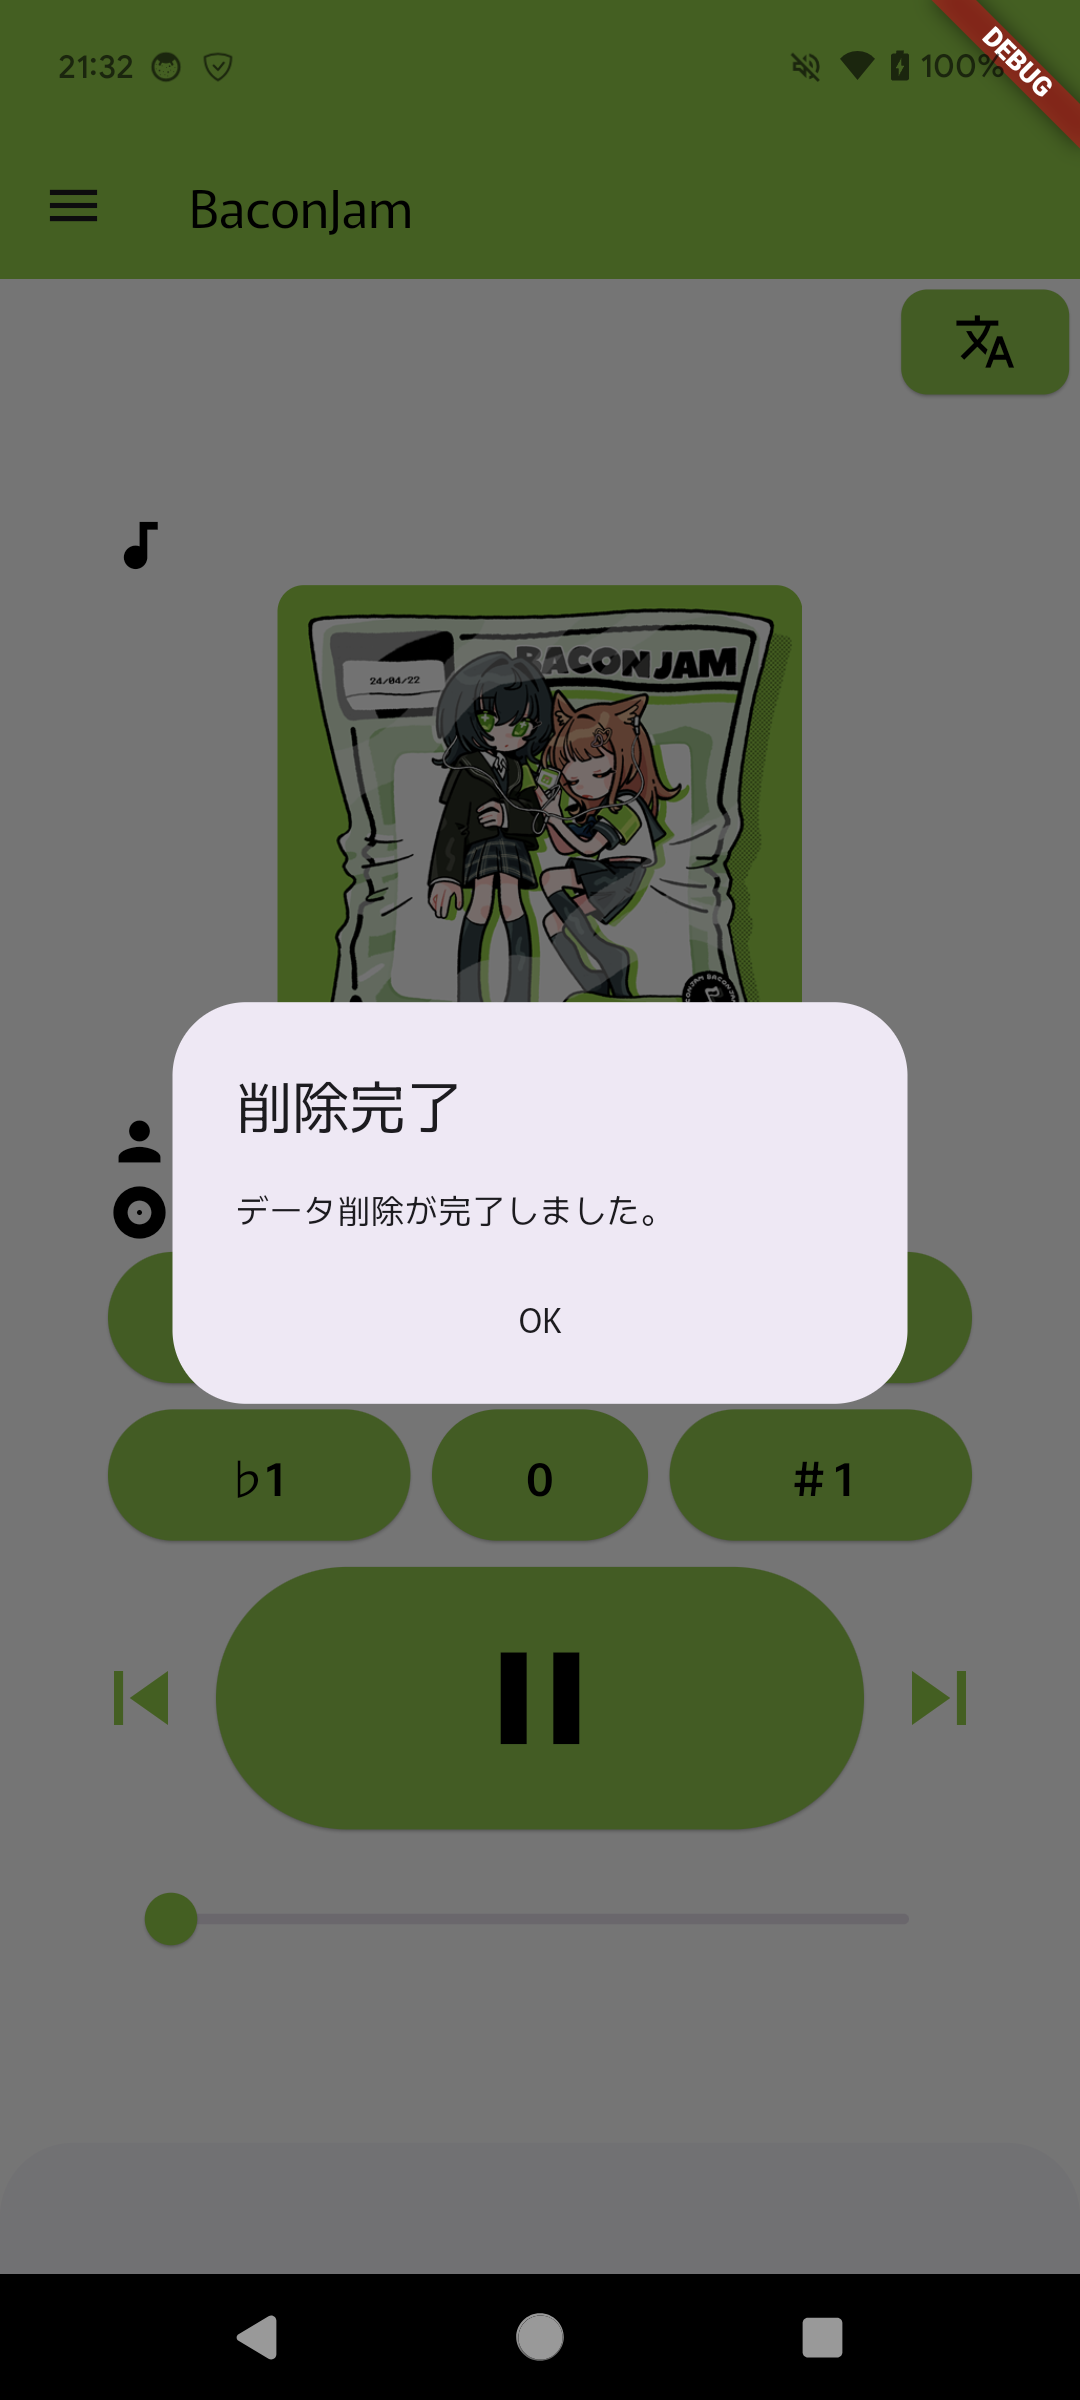
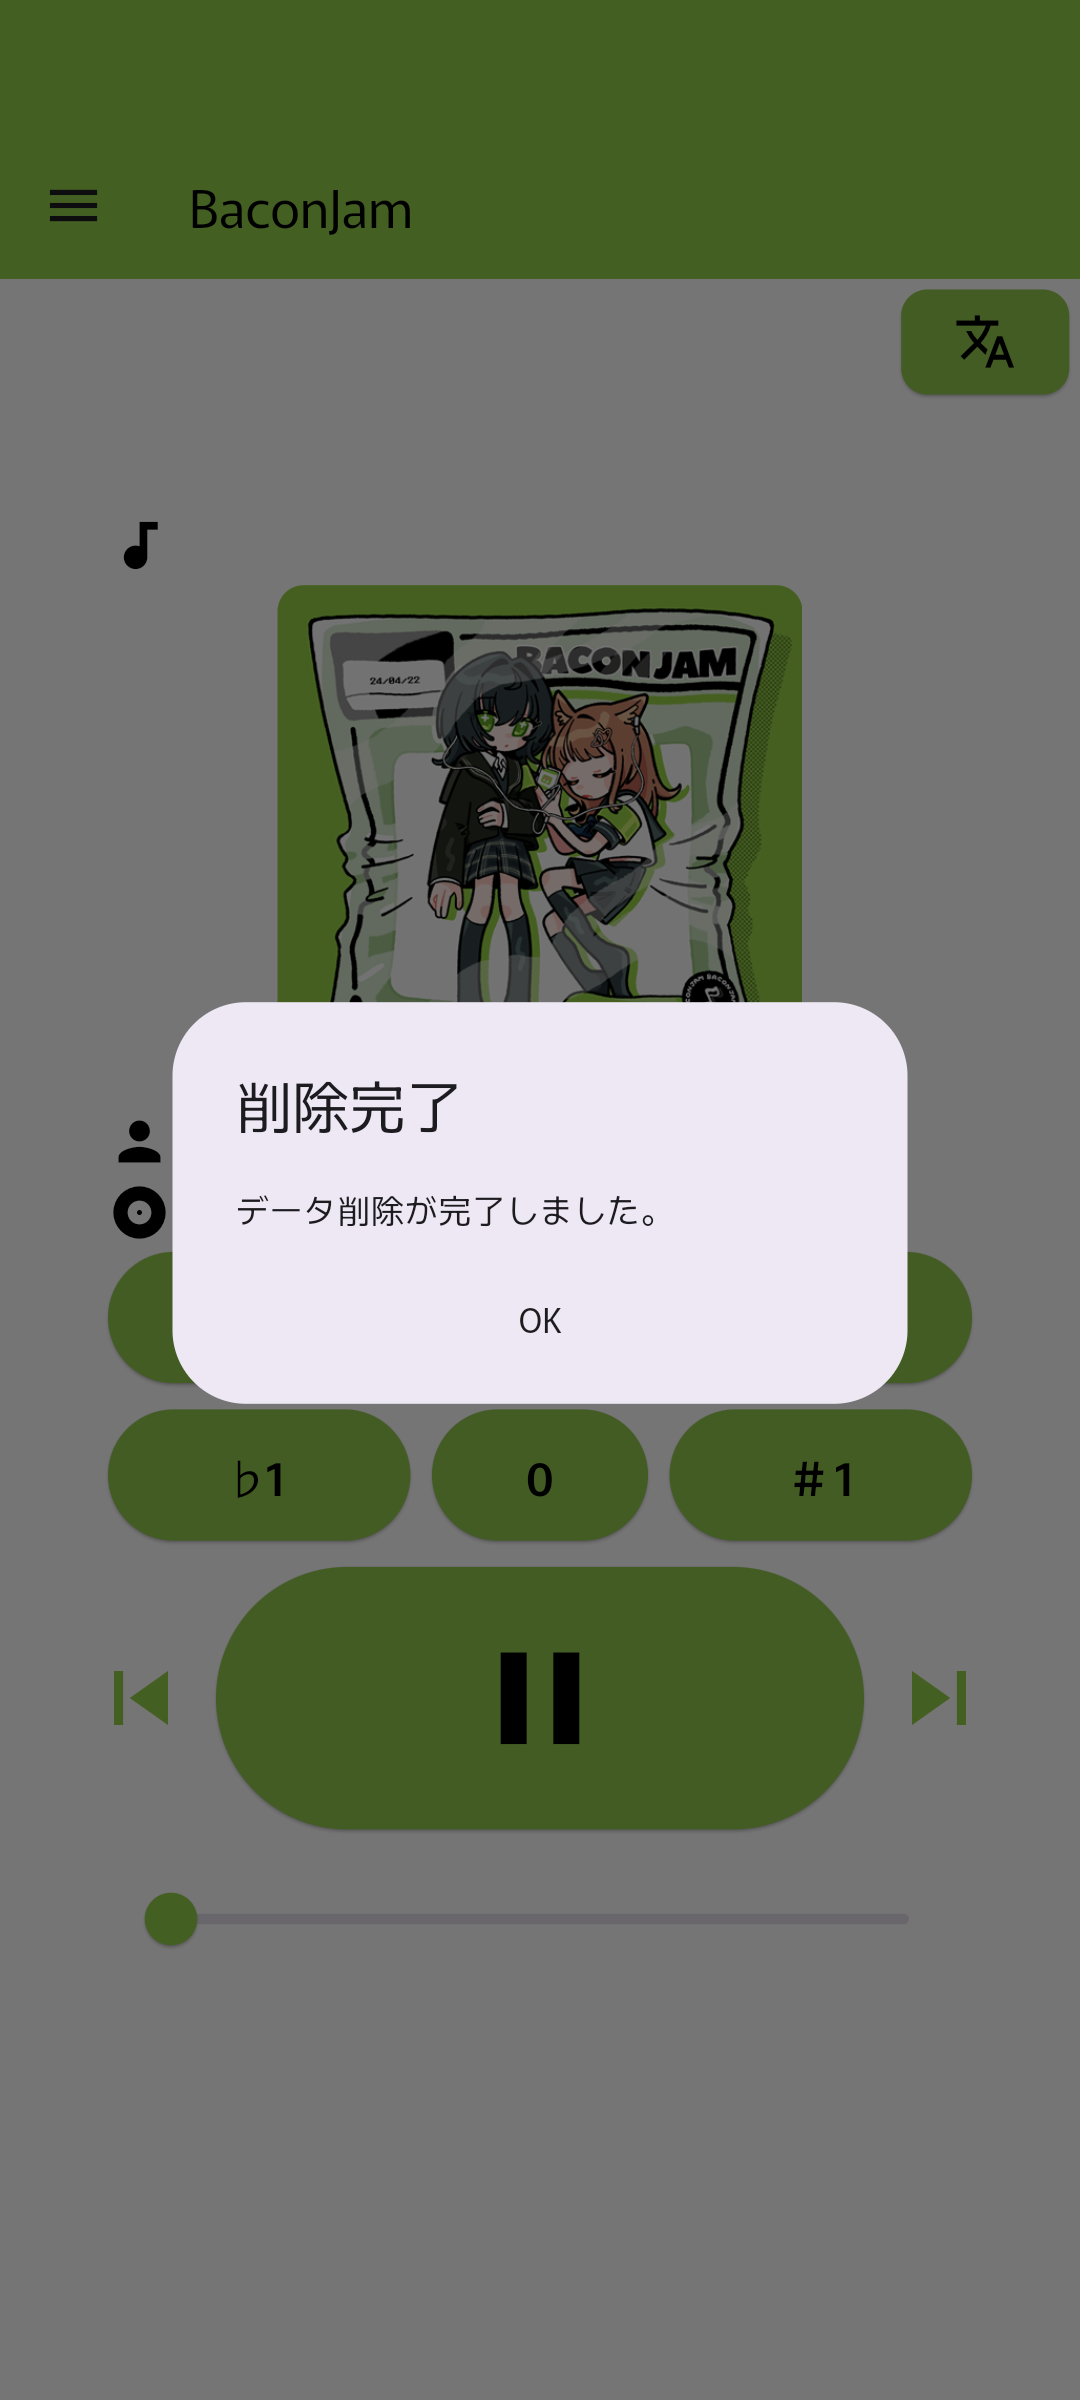
一部のキャプチャをスマートフォンの枠付きに変更しました。

Changed region(s): [[0.0, 0.9375, 1.0, 1.0], [0.7333, 0.0, 1.0, 0.0625]]

diff --git a/docs/version-history.html b/docs/version-history.html
@@ -336,7 +336,7 @@
                 <hr class="change">
                 <ul>
                     <li><span class="hover-text"
-                            data-image="images/display-main.png"></span>で以下のテキストが画面からはみ出る場合のみ、スクロールするように変更しました。</li>
+                            data-image="images/display-main_framed.png"></span>で以下のテキストが画面からはみ出る場合のみ、スクロールするように変更しました。</li>
                     <ul>
                         <li>曲名</li>
                         <li>アーティスト名</li>
@@ -345,7 +345,7 @@
                     <li><span class="hover-text"
                             data-image="images/display-setting.png"></span>の接続サーバー名をコード風テキストに変更しました。</li>
                     <li><span class="hover-text"
-                            data-image="images/display-main.png"></span>のプレイリスト選択ダイアログの最下部に表示されるボタンのテキストを変更しました。</li>
+                            data-image="images/display-main_framed.png"></span>のプレイリスト選択ダイアログの最下部に表示されるボタンのテキストを変更しました。</li>
                     <table class="table-design">
                         <tbody>
                             <tr>
@@ -377,7 +377,7 @@
                 <hr class="new">
                 <ul>
                     <li><span class="hover-text"
-                            data-image="images/display-main.png"></span>にストリーミングサービスで再生中の曲を強制的になうぷれ投稿するためのボタン<span
+                            data-image="images/display-main_framed.png"></span>にストリーミングサービスで再生中の曲を強制的になうぷれ投稿するためのボタン<span
                             class="button-like-text"><span class="material-icons"
                                 style="font-size: 1.2em; vertical-align: middle;">send</span></span>を追加しました。
                     </li>
@@ -836,7 +836,7 @@
                         <li>設定画面の<span class="button-like-text">なうぷれ設定</span>→<span
                                 class="button-like-text">投稿文パターン</span>で「カスタム」を選択する</li>
                         <li>設定画面からメイン画面に移動する</li>
-                        <li><span class="hover-text" data-image="images/display-main.png"></span>から設定画面に移動する</li>
+                        <li><span class="hover-text" data-image="images/display-main_framed.png"></span>から設定画面に移動する</li>
                     </ol>
                 </ul>
             </div>
@@ -868,9 +868,9 @@
                 <div class="table-container" data-release-date="20240807" data-install-size="17.2[MB]"></div>
                 <hr class="new">
                 <ul>
-                    <li><span class="hover-text" data-image="images/display-main.png"></span>の<span class="hover-text"
+                    <li><span class="hover-text" data-image="images/display-main_framed.png"></span>の<span class="hover-text"
                             data-image="images/display-drawer.png"></span>に、アプリへのレビューを送信する機能を追加しました。</li>
-                    <li><span class="hover-text" data-image="images/display-main.png">ホーム画面</span>の<span
+                    <li><span class="hover-text" data-image="images/display-main_framed.png">ホーム画面</span>の<span
                             class="hover-text"
                             data-image="images/display-drawer.png"></span>から、感想用Googleフォームへのリンクを削除しました。</li>
                 </ul>
@@ -983,7 +983,7 @@
                     <li>インストール後の初回起動時に、マニュアル(本サイト)へ誘導するダイアログを表示する機能を追加しました。</li>
                     <li>以下の操作を行った際に、フィードバック振動を行う機能を追加しました。</li>
                     <ul>
-                        <li><span class="hover-text" data-image="images/display-main.png"></span></li>
+                        <li><span class="hover-text" data-image="images/display-main_framed.png"></span></li>
                         <ul>
                             <li><span class="button-like-text"><span class="material-icons"
                                         style="font-size: 1.2em; vertical-align: middle;">restart_alt</span></span>または<span

diff --git a/docs/youtube-setting.html b/docs/youtube-setting.html
@@ -156,7 +156,7 @@
                     Scrobbler</a>をインストールしてください。</li>
             <li>Pano Scrobblerを起動して<span class="button-like-text">Last.fm</span>を押下してください。</li>
             <div class="screenshots">
-                <a href="./images/lastfm5.png" data-lightbox="misskey-group"><img src="./images/lastfm5.png" alt=""
+                <a href="./images/lastfm5_framed.png" data-lightbox="misskey-group"><img src="./images/lastfm5_framed.png" alt=""
                         width="35%"></a>
             </div>
             <li>last.fmのアプリケーション接続画面に切り替わるので、<span class="button-like-text">YES, ALLOW ACCESS</span>を押下してください。</li>
@@ -167,7 +167,7 @@
             <li>通知へのアクセスを許可してください。</li>
             <li>Scrobble対象の<span class="button-like-text">開く</span>を押下して、YouTube Musicのみにチェックが入った状態にしてください。</li>
             <div class="screenshots">
-                <a href="./images/lastfm8.png" data-lightbox="misskey-group"><img src="./images/lastfm8.png" alt=""
+                <a href="./images/lastfm8_framed.png" data-lightbox="misskey-group"><img src="./images/lastfm8_framed.png" alt=""
                         width="35%"></a>
                 <a href="./images/lastfm9.png" data-lightbox="misskey-group"><img src="./images/lastfm9.png" alt=""
                         width="35%"></a>
@@ -181,9 +181,9 @@
             <li><span class="hover-text" data-image="images/display-setting.png"></span>の<span
                     class="button-like-text"><span class="material-icons" style="font-size: 1.2em; vertical-align: middle;">private_connectivity</span>YouTube接続設定</span>を押下して、設定項目を展開してください。</li>
             <div class="screenshots">
-                <a href="./images/lastfm11.png" data-lightbox="misskey-group"><img src="./images/lastfm11.png" alt=""
+                <a href="./images/lastfm11_framed.png" data-lightbox="misskey-group"><img src="./images/lastfm11_framed.png" alt=""
                         width="35%"></a>
-                <a href="./images/lastfm12.png" data-lightbox="misskey-group"><img src="./images/lastfm12.png" alt=""
+                <a href="./images/lastfm12_framed.png" data-lightbox="misskey-group"><img src="./images/lastfm12_framed.png" alt=""
                         width="35%"></a>
             </div>
             <li>last.fmのユーザー名と、先ほど控えた<code>API key</code>を入力してください。</li>

diff --git a/docs/spotify-setting.html b/docs/spotify-setting.html
@@ -219,14 +219,14 @@
             <li>以下の図のような認証ページが表示されるので、<span class="button-like-text">同意する</span>を押下してください。</li>
         </ol>
         <div class="screenshots">
-            <a href="./images/spotify13.png" data-lightbox="misskey-group"><img src="./images/spotify13.png" alt=""
+            <a href="./images/spotify13_framed.png" data-lightbox="misskey-group"><img src="./images/spotify13_framed.png" alt=""
                     width="35%"></a>
         </div>
         <ol start="5">
             <li>以下の図のような接続エラーページに切り替わるので、このページのURLを控えてください。</li>
         </ol>
         <div class="screenshots">
-            <a href="./images/spotify14.png" data-lightbox="misskey-group"><img src="./images/spotify14.png" alt=""
+            <a href="./images/spotify14_framed.png" data-lightbox="misskey-group"><img src="./images/spotify14_framed.png" alt=""
                     width="35%"></a>
         </div>
         <ol start="6">
@@ -235,14 +235,14 @@
                     class="button-like-text">OK</span>ボタンを押下してください。</li>
         </ol>
         <div class="screenshots">
-            <a href="./images/spotify15.png" data-lightbox="misskey-group"><img src="./images/spotify15.png" alt=""
+            <a href="./images/spotify15_framed.png" data-lightbox="misskey-group"><img src="./images/spotify15_framed.png" alt=""
                     width="35%"></a>
         </div>
         <ol start="7">
             <li>URL入力ダイアログが閉じ、以下の図のような成功ダイアログが表示されたらBaconJam側の準備は完了です。</li>
         </ol>
         <div class="screenshots">
-            <a href="./images/spotify16.png" data-lightbox="misskey-group"><img src="./images/spotify16.png" alt=""
+            <a href="./images/spotify16_framed.png" data-lightbox="misskey-group"><img src="./images/spotify16_framed.png" alt=""
                     width="35%"></a>
         </div>
         <div class="box-check">

diff --git a/docs/guide-playlists.html b/docs/guide-playlists.html
@@ -52,7 +52,7 @@
 
         <h2>プレイリストの作成・編集</h2>
         <ol>
-            <li><span class="hover-text" data-image="images/display-main.png"></span>のハンバーガーメニュー<span
+            <li><span class="hover-text" data-image="images/display-main_framed.png"></span>のハンバーガーメニュー<span
                     class="button-like-text"><span class="material-icons"
                         style="font-size: 1.2em; vertical-align: middle;">menu</span></span>を表示し、<span
                     class="button-like-text">プレイリスト</span>を押下してください。</li>
@@ -63,7 +63,7 @@
             <div style="padding: 1em;">
                 <div class="box-memo">
                     <p>
-                        <span class="hover-text" data-image="images/display-main.png"></span>の<span
+                        <span class="hover-text" data-image="images/display-main_framed.png"></span>の<span
                             class="button-like-text"><span class="material-icons"
                                 style="font-size: 1.2em; vertical-align: middle;">queue_music</span></span>ボタンを押下して表示されるプレイリスト選択ダイアログの下にある<span
                             class="button-like-text">プレイリストを作成</span>ボタンを押下することでも、プレイリスト一覧画面に移動できます。
@@ -181,7 +181,7 @@
         <h2>プレイリストの再生</h2>
 
         <ol>
-            <li><span class="hover-text" data-image="images/display-main.png"></span>の<span
+            <li><span class="hover-text" data-image="images/display-main_framed.png"></span>の<span
                     class="button-like-text"><span class="material-icons"
                         style="font-size: 1.2em; vertical-align: middle;">queue_music</span></span>ボタンを押下して、プレイリスト選択ダイアログを表示してください。
             </li>

diff --git a/docs/guide-drive-cleaning.html b/docs/guide-drive-cleaning.html
@@ -47,7 +47,7 @@
         <h1>🧹ドライブのクリーニング</h1>
 
         <ol>
-            <li><span class="hover-text" data-image="images/display-main.png"></span>のハンバーガーメニュー<span
+            <li><span class="hover-text" data-image="images/display-main_framed.png"></span>のハンバーガーメニュー<span
                     class="button-like-text"><span class="material-icons"
                         style="font-size: 1.2em; vertical-align: middle;">menu</span></span>を押下して<span class="hover-text"
                     data-image="images/display-drawer.png"></span>を表示し、<span
@@ -58,13 +58,13 @@
             </div>
             <li>表示される確認ダイアログで<span class="button-like-text">OK</span>を押下してください。</li>
             <div class="screenshots">
-                <a href="./images/drive-cleaning2.png" data-lightbox="misskey-group"><img
-                        src="./images/drive-cleaning2.png" alt="" width="35%"></a>
+                <a href="./images/drive-cleaning2_framed.png" data-lightbox="misskey-group"><img
+                        src="./images/drive-cleaning2_framed.png" alt="" width="35%"></a>
             </div>
             <li>削除処理が完了すると、通知ダイアログが表示されます。</li>
             <div class="screenshots">
-                <a href="./images/drive-cleaning3.png" data-lightbox="misskey-group"><img
-                        src="./images/drive-cleaning3.png" alt="" width="35%"></a>
+                <a href="./images/drive-cleaning3_framed.png" data-lightbox="misskey-group"><img
+                        src="./images/drive-cleaning3_framed.png" alt="" width="35%"></a>
             </div>
             <div class="box-memo">
                 <ul>

diff --git a/docs/guide-languages.html b/docs/guide-languages.html
@@ -52,12 +52,12 @@
                         style="font-size: 1.2em; vertical-align: middle;">translate</span></span>を押下して言語選択ダイアログを表示してください。
             </li>
             <div class="screenshots">
-                <a href="./images/languages1.png" data-lightbox="misskey-group"><img src="./images/languages1.png"
+                <a href="./images/display-main_framed.png" data-lightbox="misskey-group"><img src="./images/display-main_framed.png"
                         alt="" width="35%"></a>
             </div>
             <li>切り替えたい言語名を押下してください。</li>
             <div class="screenshots">
-                <a href="./images/languages2.png" data-lightbox="misskey-group"><img src="./images/languages2.png"
+                <a href="./images/languages1_framed.png" data-lightbox="misskey-group"><img src="./images/languages1_framed.png"
                         alt="" width="35%"></a>
             </div>
         </ol>

diff --git a/docs/guide-check-current-version.html b/docs/guide-check-current-version.html
@@ -56,8 +56,8 @@
             </div>
             <li>画面上部に、インストール済バージョンが表示されます。</li>
             <div class="screenshots">
-                <a href="./images/current-version2.png" data-lightbox="misskey-group"><img
-                        src="./images/current-version2.png" alt="" width="35%"></a>
+                <a href="./images/current-version2_framed.png" data-lightbox="misskey-group"><img
+                        src="./images/current-version2_framed.png" alt="" width="35%"></a>
             </div>
             <li><span class="button-like-text">アップデートを確認する</span>を押下すると、<a
                     href="https://play.google.com/store/apps/details?id=com.falhongcha.baconjam&pcampaignid=pcampaignidMKT-Other-global-all-co-prtnr-py-PartBadge-Mar2515-1">Google

diff --git a/docs/guide-nowplaying.html b/docs/guide-nowplaying.html
@@ -52,7 +52,7 @@
     <div class="contentsbody">
         <h1>なうぷれ投稿について</h1>
         <ol>
-            <li><span class="hover-text" data-image="images/display-main.png"></span>のハンバーガーメニュー<span
+            <li><span class="hover-text" data-image="images/display-main_framed.png"></span>のハンバーガーメニュー<span
                     class="button-like-text"><span class="material-icons"
                         style="font-size: 1.2em; vertical-align: middle;">menu</span></span>を押下してドロワーを表示し、<span
                     class="button-like-text">設定</span>を押下してください。</li>

diff --git a/docs/guide-send-review.html b/docs/guide-send-review.html
@@ -47,7 +47,7 @@
         <h1>📩レビューを送信する</h1>
 
         <ol>
-            <li><span class="hover-text" data-image="images/display-main.png"></span>のハンバーガーメニュー<span
+            <li><span class="hover-text" data-image="images/display-main_framed.png"></span>のハンバーガーメニュー<span
                     class="button-like-text"><span class="material-icons"
                         style="font-size: 1.2em; vertical-align: middle;">menu</span></span>を押下して<span
                     class="hover-text" data-image="images/display-drawer.png"></span>を表示し、<span

diff --git a/docs/displays.html b/docs/displays.html
@@ -54,7 +54,7 @@
                         alt="" width="35%"></a>
             </div>
             <h2>ドロワー</h2>
-            <span class="hover-text" data-image="images/display-main.png"></span>のハンバーガーメニュー<span
+            <span class="hover-text" data-image="images/display-main_framed.png"></span>のハンバーガーメニュー<span
                 class="button-like-text"><span class="material-icons"
                     style="font-size: 1.2em; vertical-align: middle;">menu</span></span>を押下することで表示される画面です。
             <div class="screenshots">

diff --git a/docs/js/generate-text-by-image.js b/docs/js/generate-text-by-image.js
@@ -26,7 +26,7 @@ function updateSpanText() {
             case 'images/display-playlists-1.png':
                 newText = 'プレイリスト一覧画面';
                 break;
-            case 'images/display-main.png':
+            case 'images/display-main_framed.png':
                 newText = 'ホーム画面';
                 break;
             case 'images/display-drawer.png':
